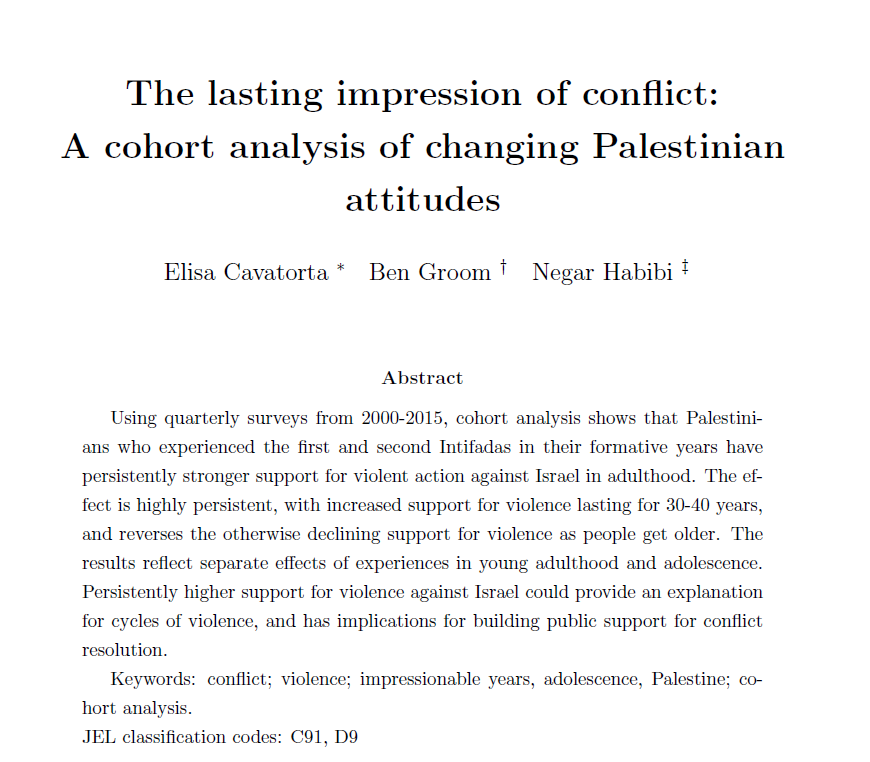
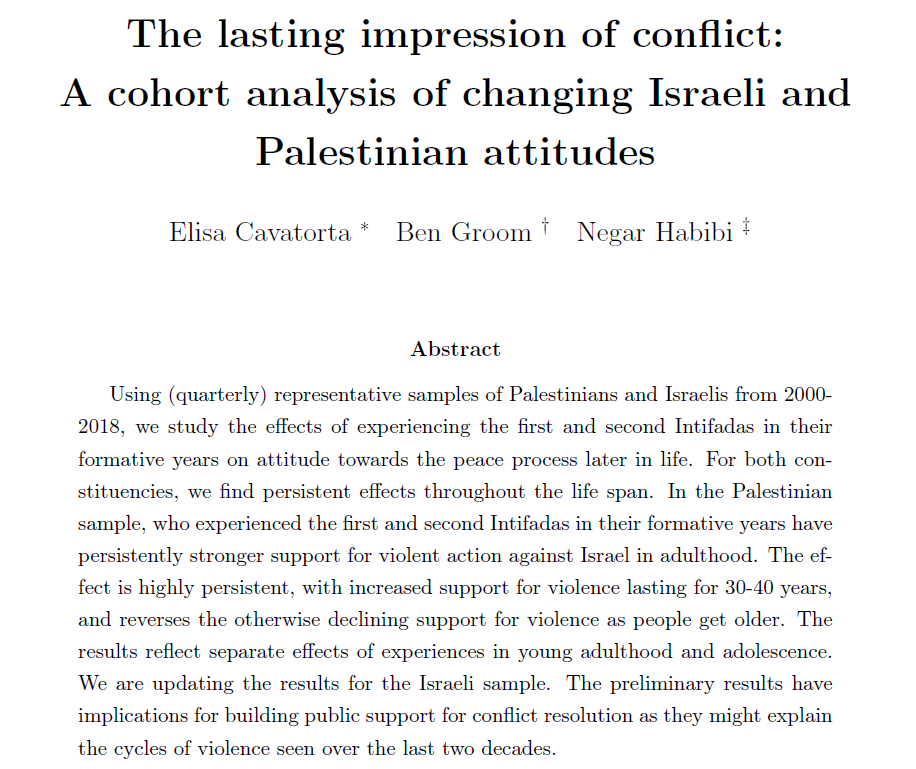
updating papers on Israel and Palestine

Changed region(s): [[0.0621, 0.4226, 0.931, 0.9961], [0.0621, 0.0, 0.931, 0.3924], [0.6207, 0.2717, 0.8069, 0.3924]]

diff --git a/elisacavatorta/index.html b/elisacavatorta/index.html
@@ -256,7 +256,17 @@
               <img src="research/cohort_title.png" class="img-fluid" alt="">
               <div class="portfolio-links">
                 <a href="research/cohort_abstract.png" data-gall="portfolioGallery" class="venobox" title="Working Papers"><i class="bx bx-zoom-in"></i></a>
-                <a href="../papers/cohort/CavatortaGroomHabibi(2020)_vs6.9.pdf" target="_blank" download="Cavatorta_etal2021_lasting_impression_of_conflict" title="download paper"><i class="bx bx-link"></i></a>
+<!--                <a href="../papers/cohort/CavatortaGroomHabibi(2020)_vs6.9.pdf" target="_blank" download="Cavatorta_etal2021_lasting_impression_of_conflict" title="download paper"><i class="bx bx-link"></i></a>-->
+              </div>
+            </div>
+          </div>
+
+          <div class="col-lg-4 col-md-6 portfolio-item filter-wp">
+            <div class="portfolio-wrap">
+              <img src="research/beliefs_title.png" class="img-fluid" alt="">
+              <div class="portfolio-links">
+                <a href="research/beliefs_abstract.png" data-gall="portfolioGallery" class="venobox" title="Working Papers"><i class="bx bx-zoom-in"></i></a>
+<!--                <a href="../papers/cohort/CavatortaGroomHabibi(2020)_vs6.9.pdf" target="_blank" download="Cavatorta_etal2021_lasting_impression_of_conflict" title="download paper"><i class="bx bx-link"></i></a>-->
               </div>
             </div>
           </div>
